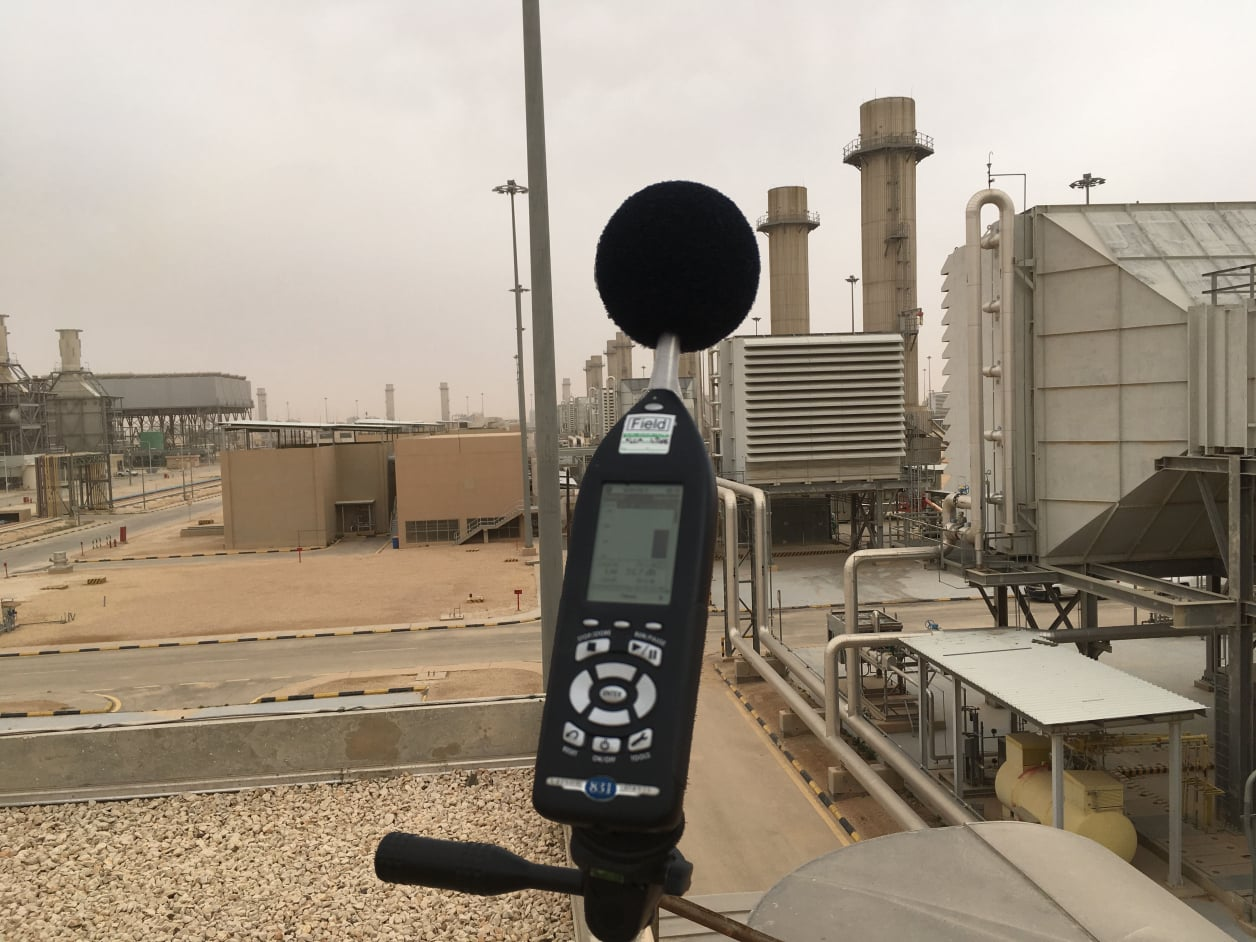
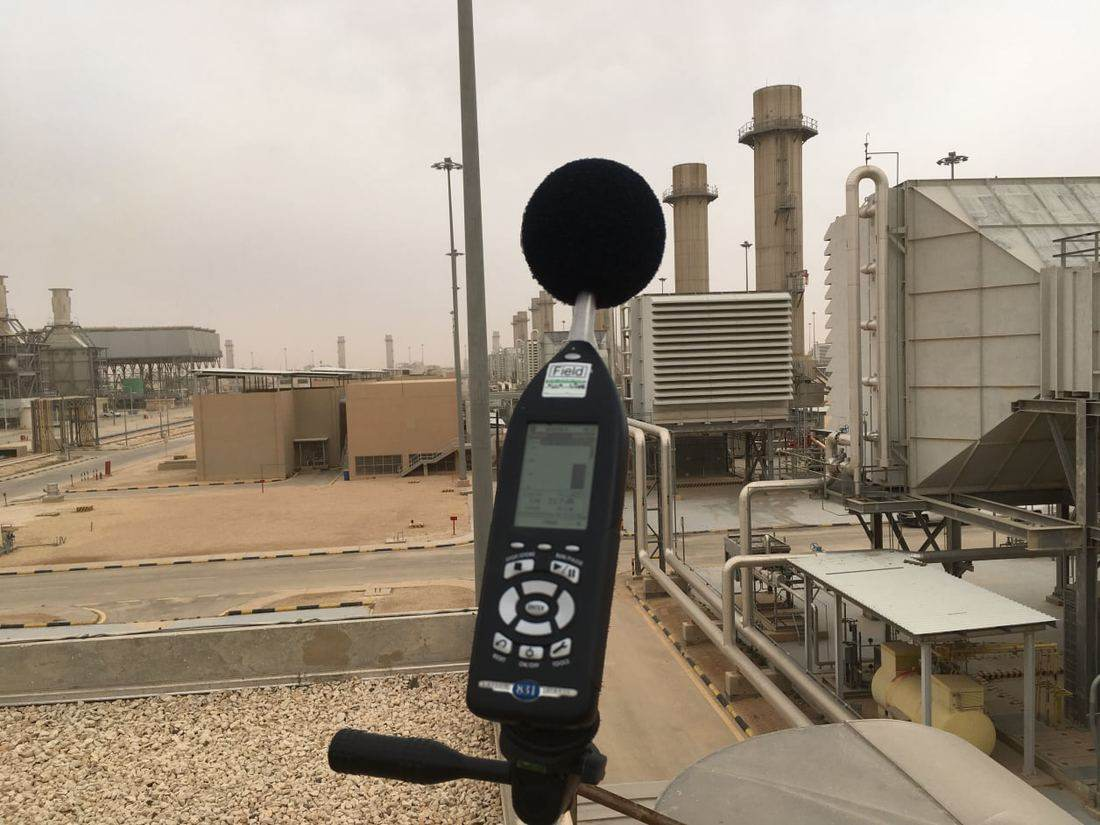
Reduced size of images

diff --git a/background-noise-measurements.html b/background-noise-measurements.html
@@ -10,7 +10,7 @@
   <meta name="description" content="Learn about the different types of outdoor sound measurements, the standards that govern them, and what you can (and cannot) learn from them.">
   
   
-  <title>background-noise-measurements</title>
+  <title>Background Noise Measurements | Acoustic Analytics</title>
   <link rel="canonical" href="https://acousticanalytics.com/background-noise-measurements.html">
   <link rel="stylesheet" href="assets/web/assets/mobirise-icons2/mobirise2.css">
   <link rel="stylesheet" href="assets/bootstrap/css/bootstrap.min.css">
@@ -105,7 +105,7 @@
             </div>
             <div class="p-0 col-12 col-lg-5 md-pb">
                 <div class="image-wrapper">
-                    <img src="assets/images/meterplacement2-680x1024.png" alt="A sound level meter in the field">
+                    <img src="assets/images/meterplacement2-680x1024.jpg" alt="A sound level meter in the field">
                 </div>
             </div>
         </div>
@@ -123,11 +123,11 @@
             <div class="col-md-12 col-lg-10">
                     <h3 class="mbr-section-title mbr-fonts-style mb-4 display-7">The following are a selection of books that have more details about community noise and noise measurements. Sadly, many are now out of print, but there are still copies available.</h3>
                 <ul class="list mbr-fonts-style display-7">
-                    <li><a href="https://smile.amazon.com/Handbook-Assessment-Nostrand-environmental-engineering/dp/0442251971/ref=sr_1_fkmr0_1?keywords=May%2C+Daryl+N.%2C+%E2%80%9CHandbook+of+Noise+Asessment%2C%E2%80%9D+Van+Nostrand+Reinhold%2C+1978+Cowan%2C+J.+P.%2C+%E2%80%9CHandbook+of+Environmental+Acoustics%E2%80%9D%2C+Van+Nostrand+Reinhold%2C+1994+Freeman%2C+L.+H.%2C+%E2%80%9CHow+to+Write+Quality+EISs+and+EAs%E2%80%9D%2C+Shipley+Associates%2C+1992+Harris%2C+C.+M.%2C+%E2%80%9CHandbook+of+Acoustical+Measurement+and+Noise+Control%E2%80%9D%2C+3rd+Ed.%2C+McGraw-Hill%2C+Inc.%2C+1991+Jain%2C+R.+K.%2C+et+al.%2C+%E2%80%9CEnvironmental+Assessment%E2%80%9D%2C+McGraw-Hill%2C+Inc.%2C+1993+Wilson%2C+C.+E.%2C+%E2%80%9CNoise+Control%3A+Measurement%2C+Analysis+and+Control+of+Sound+and+Vibration%E2%80%9D%2C+Krieger+Publishing+Company%2C+1994&qid=1568988652&sr=8-1-fkmr0" class="text-primary" target="_blank" rel="noopener noreferrer">May, Daryl N., “Handbook of Noise Assessment,” Van Nostrand Reinhold, 1978</a></li>
-                    <li><a href="https://smile.amazon.com/Handbook-Environmental-Acoustics-James-Cowan/dp/0471285846?sa-no-redirect=1" class="text-primary" target="_blank" rel="noopener noreferrer">Cowan, J. P., “Handbook of Environmental Acoustics”, Van Nostrand Reinhold, 1994</a></li>
-                    <li><a href="https://smile.amazon.com/Handbook-Acoustical-Measurements-Noise-Control/dp/156396774X/ref=sr_1_1?keywords=Harris%2C+C.+M.%2C+%E2%80%9CHandbook+of+Acoustical+Measurement+and+Noise+Control%E2%80%9D&qid=1568988912&s=books&sr=1-1" class="text-primary" target="_blank" rel="noopener noreferrer">Harris, C. M., “Handbook of Acoustical Measurement and Noise Control”, 3rd Ed., McGraw-Hill, Inc., 1991</a></li>
-                    <li><a href="https://smile.amazon.com/Environmental-Assessment-R-Jain-1993-05-03/dp/B01FEP0V54/ref=sr_1_1?keywords=Jain%2C+R.+K.+%E2%80%9CEnvironmental+Assessment%E2%80%9D&qid=1568988991&s=books&sr=1-1" class="text-primary" target="_blank" rel="noopener noreferrer">Jain, R. K., et al., “Environmental Assessment”, McGraw-Hill, Inc., 1993</a></li>
-                    <li><a href="https://smile.amazon.com/Noise-Control-Measurement-Analysis-Vibration/dp/1575242370/ref=sr_1_1?keywords=%E2%80%9CNoise+Control%3A+Measurement%2C+Analysis+and+Control+of+Sound+and+Vibration&qid=1568989044&s=books&sr=1-1" class="text-primary" target="_blank" rel="noopener noreferrer">Wilson, C. E., “Noise Control: Measurement, Analysis and Control of Sound and Vibration”, Krieger Publishing Co., 1994</a></li>
+                    <li><a href="https://www.amazon.com/Handbook-Assessment-Nostrand-environmental-engineering/dp/0442251971/ref=sr_1_fkmr0_1?keywords=May%2C+Daryl+N.%2C+%E2%80%9CHandbook+of+Noise+Asessment%2C%E2%80%9D+Van+Nostrand+Reinhold%2C+1978+Cowan%2C+J.+P.%2C+%E2%80%9CHandbook+of+Environmental+Acoustics%E2%80%9D%2C+Van+Nostrand+Reinhold%2C+1994+Freeman%2C+L.+H.%2C+%E2%80%9CHow+to+Write+Quality+EISs+and+EAs%E2%80%9D%2C+Shipley+Associates%2C+1992+Harris%2C+C.+M.%2C+%E2%80%9CHandbook+of+Acoustical+Measurement+and+Noise+Control%E2%80%9D%2C+3rd+Ed.%2C+McGraw-Hill%2C+Inc.%2C+1991+Jain%2C+R.+K.%2C+et+al.%2C+%E2%80%9CEnvironmental+Assessment%E2%80%9D%2C+McGraw-Hill%2C+Inc.%2C+1993+Wilson%2C+C.+E.%2C+%E2%80%9CNoise+Control%3A+Measurement%2C+Analysis+and+Control+of+Sound+and+Vibration%E2%80%9D%2C+Krieger+Publishing+Company%2C+1994&qid=1568988652&sr=8-1-fkmr0" class="text-primary" target="_blank" rel="noopener noreferrer">May, Daryl N., “Handbook of Noise Assessment,” Van Nostrand Reinhold, 1978</a></li>
+                    <li><a href="https://www.amazon.com/Handbook-Environmental-Acoustics-James-Cowan/dp/0471285846?sa-no-redirect=1" class="text-primary" target="_blank" rel="noopener noreferrer">Cowan, J. P., “Handbook of Environmental Acoustics”, Van Nostrand Reinhold, 1994</a></li>
+                    <li><a href="https://www.amazon.com/Handbook-Acoustical-Measurements-Noise-Control/dp/156396774X/ref=sr_1_1?keywords=Harris%2C+C.+M.%2C+%E2%80%9CHandbook+of+Acoustical+Measurement+and+Noise+Control%E2%80%9D&qid=1568988912&s=books&sr=1-1" class="text-primary" target="_blank" rel="noopener noreferrer">Harris, C. M., “Handbook of Acoustical Measurement and Noise Control”, 3rd Ed., McGraw-Hill, Inc., 1991</a></li>
+                    <li><a href="https://www.amazon.com/Environmental-Assessment-R-Jain-1993-05-03/dp/B01FEP0V54/ref=sr_1_1?keywords=Jain%2C+R.+K.+%E2%80%9CEnvironmental+Assessment%E2%80%9D&qid=1568988991&s=books&sr=1-1" class="text-primary" target="_blank" rel="noopener noreferrer">Jain, R. K., et al., “Environmental Assessment”, McGraw-Hill, Inc., 1993</a></li>
+                    <li><a href="https://www.amazon.com/Noise-Control-Measurement-Analysis-Vibration/dp/1575242370/ref=sr_1_1?keywords=%E2%80%9CNoise+Control%3A+Measurement%2C+Analysis+and+Control+of+Sound+and+Vibration&qid=1568989044&s=books&sr=1-1" class="text-primary" target="_blank" rel="noopener noreferrer">Wilson, C. E., “Noise Control: Measurement, Analysis and Control of Sound and Vibration”, Krieger Publishing Co., 1994</a></li>
                 </ul>
             </div>
         </div>

diff --git a/index.html b/index.html
@@ -10,7 +10,7 @@
   <meta name="description" content="Acoustic Analytics provides warning system analysis, siren coverage modeling, and FEMA compliance consulting with 25+ years of experience.">
   
   
-  <title>Home</title>
+  <title>Acoustic Analytics | Outdoor Warning System Analysis</title>
   <link rel="canonical" href="https://acousticanalytics.com/">
   <link rel="stylesheet" href="assets/bootstrap/css/bootstrap.min.css">
   <link rel="stylesheet" href="assets/parallax/jarallax.css">
@@ -117,7 +117,7 @@
             <div class="item features-image col-12 col-md-6 col-lg-4">
                 <div class="item-wrapper">
                     <div class="item-img">
-                        <a href="background-noise-measurements.html"><img src="assets/images/mic-placement-816x447.png" alt="A microphone in front of a yard"></a>
+                        <a href="background-noise-measurements.html"><img src="assets/images/mic-placement-816x447.jpg" alt="A microphone in front of a yard"></a>
                     </div>
                     <div class="item-content">
                         <h5 class="item-title mbr-fonts-style display-7"><strong>Outdoor Measurements</strong></h5>
@@ -131,7 +131,7 @@
             <div class="item features-image col-12 col-md-6 col-lg-4">
                 <div class="item-wrapper">
                     <div class="item-img">
-                        <a href="documents.html"><img src="assets/images/library-816x447.png" alt="A bookshelf"></a>
+                        <a href="documents.html"><img src="assets/images/library-816x447.jpg" alt="A bookshelf"></a>
                     </div>
                     <div class="item-content">
                         <h5 class="item-title mbr-fonts-style display-7"><strong>Key Documents</strong></h5>

diff --git a/industrial-noise.html b/industrial-noise.html
@@ -10,7 +10,7 @@
   <meta name="description" content="Field measurements of industrial noise environments to support OSHA compliance and protect employee hearing.">
   
   
-  <title>industrial_noise</title>
+  <title>Industrial Noise Measurements | Acoustic Analytics</title>
   <link rel="canonical" href="https://acousticanalytics.com/industrial-noise.html">
   <link rel="stylesheet" href="assets/web/assets/mobirise-icons2/mobirise2.css">
   <link rel="stylesheet" href="assets/bootstrap/css/bootstrap.min.css">
@@ -100,7 +100,7 @@
             </div>
             <div class="p-0 col-12 col-lg-5 md-pb">
                 <div class="image-wrapper">
-                    <img src="assets/images/saudislm-1200x800-923x615.png" alt="A sound level meter at an industrial site">
+                    <img src="assets/images/saudislm-1200x800-923x615.jpg" alt="A sound level meter at an industrial site">
                 </div>
             </div>
         </div>
